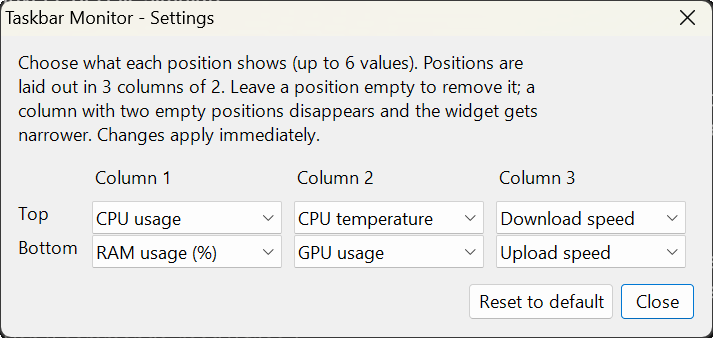
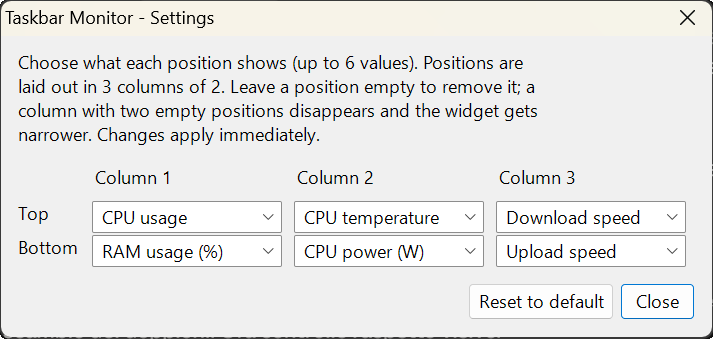
Document the new values and category grouping for 1.3.0
Update the README and the website with the six new values (tables grouped by
category, sources of each value, new screenshots including the grouped
drop-down), the FAQ answers, the executable size (44 KB) and the social
preview image. Add the 1.3.0 section to the changelog.

diff --git a/docs/index.html b/docs/index.html
@@ -4,7 +4,7 @@
   <meta charset="utf-8">
   <meta name="viewport" content="width=device-width, initial-scale=1">
   <title>Taskbar Monitor: network speed, CPU and RAM on your Windows taskbar</title>
-  <meta name="description" content="Taskbar Monitor is a free, open-source Windows overlay that shows live download and upload speed, CPU, RAM, CPU temperature and the track you are playing, right on the taskbar. One 37 KB file, no installer.">
+  <meta name="description" content="Taskbar Monitor is a free, open-source Windows overlay that shows live download and upload speed, CPU, RAM, CPU temperature and the track you are playing, right on the taskbar. One 44 KB file, no installer.">
   <link rel="canonical" href="https://alessandrozappatore.github.io/TaskbarMonitor/">
   <meta name="theme-color" content="#14181c" media="(prefers-color-scheme: dark)">
   <meta name="theme-color" content="#fafaf8" media="(prefers-color-scheme: light)">
@@ -13,7 +13,7 @@
   <meta property="og:type" content="website">
   <meta property="og:site_name" content="Taskbar Monitor">
   <meta property="og:title" content="Taskbar Monitor: network speed, CPU and RAM on your Windows taskbar">
-  <meta property="og:description" content="Free, open-source overlay for the Windows taskbar. Live network speed, CPU, RAM, temperature and now playing. One 37 KB file, no installer, no telemetry.">
+  <meta property="og:description" content="Free, open-source overlay for the Windows taskbar. Live network speed, CPU, RAM, temperature and now playing. One 44 KB file, no installer, no telemetry.">
   <meta property="og:url" content="https://alessandrozappatore.github.io/TaskbarMonitor/">
   <meta property="og:image" content="https://alessandrozappatore.github.io/TaskbarMonitor/og-image.png">
   <meta property="og:image:width" content="1200">
@@ -21,7 +21,7 @@
   <meta property="og:image:alt" content="A Windows taskbar showing the now-playing widget on the left and CPU, RAM, temperature and network speed next to the clock.">
   <meta name="twitter:card" content="summary_large_image">
   <meta name="twitter:title" content="Taskbar Monitor: network speed, CPU and RAM on your Windows taskbar">
-  <meta name="twitter:description" content="Free, open-source overlay for the Windows taskbar. One 37 KB file, no installer, no telemetry.">
+  <meta name="twitter:description" content="Free, open-source overlay for the Windows taskbar. One 44 KB file, no installer, no telemetry.">
   <meta name="twitter:image" content="https://alessandrozappatore.github.io/TaskbarMonitor/og-image.png">
 
   <link rel="stylesheet" href="style.css">
@@ -61,7 +61,7 @@
   <main>
     <div class="wrap hero">
       <h1>Network speed, CPU, RAM and music on your Windows taskbar</h1>
-      <p class="lead">Taskbar Monitor is a small overlay that sits on the taskbar and shows what your PC is doing right now. One 37&nbsp;KB file, no installer, nothing sent anywhere.</p>
+      <p class="lead">Taskbar Monitor is a small overlay that sits on the taskbar and shows what your PC is doing right now. One 44&nbsp;KB file, no installer, nothing sent anywhere.</p>
       <div class="actions">
         <a class="btn primary" id="download" href="https://github.com/AlessandroZappatore/TaskbarMonitor/releases/latest/download/TaskbarMonitor.exe">Download for Windows</a>
         <a class="btn" href="https://github.com/AlessandroZappatore/TaskbarMonitor">View source on GitHub</a>
@@ -76,7 +76,7 @@
 
     <div class="wrap">
       <dl class="facts" aria-label="Key facts">
-        <div><dt>37 KB</dt><dd>single executable</dd></div>
+        <div><dt>44 KB</dt><dd>single executable</dd></div>
         <div><dt>~60 MB</dt><dd>of RAM in use</dd></div>
         <div><dt>0</dt><dd>network connections made</dd></div>
         <div><dt>MIT</dt><dd>license, free to use</dd></div>
@@ -108,27 +108,42 @@
         <p>Open <em>Settings</em> from the right-click menu. The stats widget has six positions, in three columns of two. Pick a value for each one or leave it empty, and the widget updates right away. A column with two empty positions disappears, so the widget only takes the space it needs. Labels and units change with the value you pick.</p>
         <div class="two">
           <figure class="shot bare">
-            <img src="screenshot-settings.png" width="713" height="338" alt="The Settings window with six drop-down lists arranged in three columns of two: CPU usage, RAM usage, CPU temperature, GPU usage, download speed and upload speed." loading="lazy">
+            <img src="screenshot-settings.png" width="713" height="339" alt="The Settings window with six drop-down lists arranged in three columns of two: CPU usage, RAM usage, CPU temperature, GPU usage, download speed and upload speed." loading="lazy">
             <figcaption>The Settings window: one drop-down per position.</figcaption>
           </figure>
           <figure class="shot bare">
-            <img src="screenshot-settings-options.png" width="713" height="620" alt="A drop-down list open in the Settings window, showing every available value: download speed, upload speed, CPU usage, CPU temperature, RAM usage, RAM used, disk activity, disk read speed, disk write speed, disk free space, GPU usage, battery and PC uptime." loading="lazy">
-            <figcaption>Every value you can pick, or leave the position empty.</figcaption>
+            <img src="screenshot-settings-options.png" width="713" height="945" alt="A drop-down list open in the Settings window, grouped by category: Network (download speed, upload speed, Wi-Fi signal), CPU (usage, temperature, power, frequency, thermal limit), GPU (usage, memory), Memory (RAM usage, RAM used), Disk (activity, read speed, write speed, free space) and Battery and system (battery, battery cycles, PC uptime)." loading="lazy">
+            <figcaption>Every value you can pick, grouped by category, or leave the position empty.</figcaption>
           </figure>
         </div>
         <figure class="shot" style="margin:2rem 0 1.5rem">
           <img src="screenshot-stats-disk.png" width="401" height="60" alt="Widget showing disk activity 0%, free space 130 GB, read speed 0 B/s, write speed 144 KB/s, battery 100% and uptime 7 hours 2 minutes." loading="lazy">
           <figcaption>Another setup: disk activity, free space, read and write speed, battery and uptime.</figcaption>
         </figure>
+        <figure class="shot" style="margin:0 0 1.5rem">
+          <img src="screenshot-stats-power.png" width="385" height="60" alt="Widget showing CPU power 2.7 W, frequency 1.55 GHz, thermal limit 100%, Wi-Fi signal 94%, GPU memory 932 MB and 585 battery cycles." loading="lazy">
+          <figcaption>And another: CPU power and frequency, thermal limit, Wi-Fi signal, GPU memory and battery cycles.</figcaption>
+        </figure>
         <table>
-          <thead><tr><th scope="col">Value</th><th scope="col">Shown as</th></tr></thead>
           <tbody>
+            <tr><th scope="rowgroup" colspan="2">Network</th></tr>
             <tr><td>Download and upload speed</td><td><code>&darr; 264 B/s</code> &nbsp; <code>&uarr; 1.2 MB/s</code></td></tr>
+            <tr><td>Wi-Fi signal</td><td><code>WIFI 94%</code></td></tr>
+            <tr><th scope="rowgroup" colspan="2">CPU</th></tr>
             <tr><td>CPU usage and temperature</td><td><code>CPU 12%</code> &nbsp; <code>TEMP 53&deg;C</code></td></tr>
-            <tr><td>RAM, as a percentage or in GB</td><td><code>RAM 65%</code> &nbsp; <code>RAM 10.6 GB</code></td></tr>
-            <tr><td>Disk activity, read and write speed, free space</td><td><code>DISK 3%</code> &nbsp; <code>READ 44 KB/s</code> &nbsp; <code>FREE 131 GB</code></td></tr>
+            <tr><td>CPU power</td><td><code>PWR 2.7 W</code></td></tr>
+            <tr><td>CPU frequency</td><td><code>FREQ 1.55 GHz</code></td></tr>
+            <tr><td>CPU thermal limit</td><td><code>LIMIT 100%</code> (turns red when the CPU is being limited by heat)</td></tr>
+            <tr><th scope="rowgroup" colspan="2">GPU</th></tr>
             <tr><td>GPU usage</td><td><code>GPU 7%</code></td></tr>
+            <tr><td>GPU memory in use</td><td><code>VRAM 932 MB</code></td></tr>
+            <tr><th scope="rowgroup" colspan="2">Memory</th></tr>
+            <tr><td>RAM, as a percentage or in GB</td><td><code>RAM 65%</code> &nbsp; <code>RAM 10.6 GB</code></td></tr>
+            <tr><th scope="rowgroup" colspan="2">Disk</th></tr>
+            <tr><td>Disk activity, read and write speed, free space</td><td><code>DISK 3%</code> &nbsp; <code>READ 44 KB/s</code> &nbsp; <code>FREE 131 GB</code></td></tr>
+            <tr><th scope="rowgroup" colspan="2">Battery and system</th></tr>
             <tr><td>Battery</td><td><code>BAT 85%</code></td></tr>
+            <tr><td>Battery charge cycles</td><td><code>CYCLES 585</code></td></tr>
             <tr><td>PC uptime</td><td><code>UP 6:45 h</code></td></tr>
           </tbody>
         </table>
@@ -170,7 +185,10 @@
             <tr><td>CPU and RAM</td><td>The same Windows counters Task Manager is built on.</td></tr>
             <tr><td>Temperature</td><td>The thermal zone reported by the system (ACPI), averaged over the last 5 seconds because the raw sensor can jump by tens of degrees from one second to the next. It is not a per-core reading, so it can differ from tools such as HWiNFO. If your PC does not expose it, the widget shows <code>--</code>.</td></tr>
             <tr><td>Disk and GPU</td><td>Windows performance counters. GPU usage takes the busiest engine type, the way Task Manager does, and shows <code>--</code> if Windows does not expose it on your PC.</td></tr>
-            <tr><td>Battery and uptime</td><td>Windows power status and the system tick counter.</td></tr>
+            <tr><td>Battery, cycles and uptime</td><td>Windows power status, the battery cycle count reported through WMI (read once a minute) and the system tick counter.</td></tr>
+            <tr><td>CPU power, frequency and thermal limit</td><td>The Energy Meter (Intel RAPL) and Processor Information counters, plus the thermal zone&rsquo;s passive limit. Shown as <code>--</code> when your PC does not expose them.</td></tr>
+            <tr><td>Wi-Fi signal</td><td>The signal quality of the active connection from the Windows Native Wifi API, the same percentage <code>netsh</code> reports.</td></tr>
+            <tr><td>GPU memory</td><td>The GPU Adapter Memory counters: dedicated plus shared memory in use.</td></tr>
             <tr><td>Now playing</td><td>Windows media controls, the same ones used by the keyboard media keys and the volume flyout.</td></tr>
           </tbody>
         </table>

diff --git a/docs/faq/index.html b/docs/faq/index.html
@@ -57,12 +57,12 @@
           {
             "@type": "Question",
             "name": "Can I choose what the widget shows?",
-            "acceptedAnswer": { "@type": "Answer", "text": "Yes. Right-click a widget and choose Settings. The stats widget has six positions in three columns of two. For each one you can pick download speed, upload speed, CPU usage, CPU temperature, RAM usage or used GB, disk activity, disk read or write speed, free space on the system drive, GPU usage, battery or PC uptime, or leave it empty. Changes apply immediately and empty columns disappear, so the widget only takes the space it needs." }
+            "acceptedAnswer": { "@type": "Answer", "text": "Yes. Right-click a widget and choose Settings. The stats widget has six positions in three columns of two. For each one you can pick download speed, upload speed, CPU usage, CPU temperature, RAM usage or used GB, disk activity, disk read or write speed, free space on the system drive, GPU usage, GPU memory, battery, battery cycles, PC uptime, CPU power in watts, CPU frequency, the CPU thermal limit or the Wi-Fi signal, or leave it empty. Changes apply immediately and empty columns disappear, so the widget only takes the space it needs." }
           },
           {
             "@type": "Question",
             "name": "Why does the GPU or temperature show two dashes?",
-            "acceptedAnswer": { "@type": "Answer", "text": "Two dashes mean Windows does not expose that value on your PC through the counters Taskbar Monitor uses. GPU usage relies on the GPU Engine performance counters, which need a recent graphics driver. Temperature relies on an ACPI thermal zone. Battery also shows two dashes on a PC without a battery." }
+            "acceptedAnswer": { "@type": "Answer", "text": "Two dashes mean Windows does not expose that value on your PC through the counters Taskbar Monitor uses. GPU usage relies on the GPU Engine performance counters, which need a recent graphics driver. Temperature and thermal limit rely on an ACPI thermal zone. CPU power relies on the Intel RAPL counters, which only some platforms expose. Battery and battery cycles show two dashes on a PC without a battery, and the Wi-Fi signal shows two dashes on a wired connection." }
           },
           {
             "@type": "Question",
@@ -139,10 +139,10 @@
       <p>The tray icon may be inside the <code>^</code> menu next to the clock. Drag it onto the taskbar to keep it always visible.</p>
 
       <h2 id="choose">Can I choose what the widget shows?</h2>
-      <p>Yes. Right-click a widget and choose <em>Settings</em>. The stats widget has six positions in three columns of two. For each one you can pick download speed, upload speed, CPU usage, CPU temperature, RAM usage or used GB, disk activity, disk read or write speed, free space on the system drive, GPU usage, battery or PC uptime, or leave it empty. Changes apply immediately and empty columns disappear, so the widget only takes the space it needs.</p>
+      <p>Yes. Right-click a widget and choose <em>Settings</em>. The stats widget has six positions in three columns of two. For each one you can pick download speed, upload speed, CPU usage, CPU temperature, RAM usage or used GB, disk activity, disk read or write speed, free space on the system drive, GPU usage, GPU memory, battery, battery cycles, PC uptime, CPU power in watts, CPU frequency, the CPU thermal limit or the Wi-Fi signal, or leave it empty. Changes apply immediately and empty columns disappear, so the widget only takes the space it needs.</p>
 
       <h2 id="dashes">Why does the GPU or temperature show two dashes?</h2>
-      <p>Two dashes mean Windows does not expose that value on your PC through the counters Taskbar Monitor uses. GPU usage relies on the <em>GPU Engine</em> performance counters, which need a recent graphics driver. Temperature relies on an ACPI thermal zone. Battery also shows two dashes on a PC without a battery.</p>
+      <p>Two dashes mean Windows does not expose that value on your PC through the counters Taskbar Monitor uses. GPU usage relies on the <em>GPU Engine</em> performance counters, which need a recent graphics driver. Temperature and thermal limit rely on an ACPI thermal zone. CPU power relies on the Intel RAPL counters, which only some platforms expose. Battery and battery cycles show two dashes on a PC without a battery, and the Wi-Fi signal shows two dashes on a wired connection.</p>
 
       <h2 id="players">Which players does the now-playing widget support?</h2>
       <p>Any app that uses the Windows media controls: Spotify, YouTube and other sites in Chrome or Edge, VLC and many others. If a track shows up in the Windows volume flyout, it will show up in the widget. Cover art depends on what the app provides.</p>

diff --git a/docs/style.css b/docs/style.css
@@ -202,3 +202,5 @@ th { color: var(--muted); font-weight: 600; font-size: 0.9rem; }
 @media (prefers-reduced-motion: reduce) {
   html { scroll-behavior: auto; }
 }
+
+table th[scope="rowgroup"] { color: var(--text); font-size: 0.85rem; text-transform: uppercase; letter-spacing: 0.04em; padding-top: 1.1rem; border-bottom: 1px solid var(--line); }

diff --git a/README.md b/README.md
@@ -4,7 +4,7 @@
 
 A tiny, free and open-source Windows overlay that shows **live network speed, CPU, RAM, CPU temperature and the currently playing track** right on your taskbar.
 
-- Single ~37 KB executable, no installer, no runtime to install
+- Single ~44 KB executable, no installer, no runtime to install
 - Uses ~60 MB of RAM and practically 0% CPU
 - No network access, no telemetry, no accounts
 
@@ -14,13 +14,17 @@ A tiny, free and open-source Windows overlay that shows **live network speed, CP
 | --- | --- |
 | ![Stats overlay](docs/screenshot-stats.png) | ![Stats overlay showing disk values](docs/screenshot-stats-disk.png) |
 
+A third setup showing CPU power, frequency, thermal limit, Wi-Fi signal, GPU memory and battery cycles:
+
+![Stats overlay showing power, frequency, thermal limit, Wi-Fi, GPU memory and battery cycles](docs/screenshot-stats-power.png)
+
 ![Now playing overlay](docs/screenshot-media.png)
 
 ## Features
 
 | Overlay | What it shows |
 | --- | --- |
-| **Stats** (bottom right, next to the system tray) | Up to 6 values that **you choose**: network speed, CPU, temperature, RAM, disk, GPU, battery, uptime (see [Choosing what to show](#choosing-what-to-show)) |
+| **Stats** (bottom right, next to the system tray) | Up to 6 values that **you choose**: network speed, CPU usage, temperature, power and frequency, RAM, disk, GPU, Wi-Fi, battery, uptime (see [Choosing what to show](#choosing-what-to-show)) |
 | **Now playing** (bottom left) | Cover art, title and artist of whatever is playing (Spotify, YouTube in the browser, VLC, ...). Click it to play/pause |
 
 - Fixed-position columns: values never jump around when they change.
@@ -62,22 +66,28 @@ If you move the `.exe` to another folder after enabling *Start with Windows*, to
 
 Open **Settings...** from the menu. The stats widget has **6 positions**, laid out in 3 columns of 2. Pick any value for each position, or leave it empty. Changes apply immediately.
 
-| Settings window | Every available value |
+| Settings window | Every available value, grouped by category |
 | --- | --- |
 | ![Settings window](docs/screenshot-settings.png) | ![Settings drop-down list](docs/screenshot-settings-options.png) |
  A column with two empty positions disappears and the widget gets narrower, so it never takes more space than it needs. Labels and units change with the value you pick.
 
-| Value | Shown as |
-| --- | --- |
-| Download / upload speed | `↓ 264 B/s`, `↑ 1.2 MB/s` |
-| CPU usage | `CPU 12%` |
-| CPU temperature | `TEMP 53°C` |
-| RAM usage / RAM used | `RAM 65%` / `RAM 10.6 GB` |
-| Disk activity, read speed, write speed | `DISK 3%`, `READ 44.0 KB/s`, `WRITE 128.1 KB/s` |
-| Disk free space (system drive) | `FREE 131 GB` |
-| GPU usage | `GPU 7%` |
-| Battery | `BAT 85%` (green when plugged in, red when low) |
-| PC uptime | `UP 6:45 h` or `UP 3d 4 h` |
+| Category | Value | Shown as |
+| --- | --- | --- |
+| **Network** | Download / upload speed | `↓ 264 B/s`, `↑ 1.2 MB/s` |
+| | Wi-Fi signal | `WIFI 94%` (weak signal turns red) |
+| **CPU** | CPU usage | `CPU 12%` |
+| | CPU temperature | `TEMP 53°C` |
+| | CPU power (package, RAPL) | `PWR 2.7 W` |
+| | CPU frequency | `FREQ 1.55 GHz` |
+| | CPU thermal limit | `LIMIT 100%` (100% = not limited; lower values turn red) |
+| **GPU** | GPU usage | `GPU 7%` |
+| | GPU memory in use | `VRAM 932 MB` or `VRAM 1.4 GB` |
+| **Memory** | RAM usage / RAM used | `RAM 65%` / `RAM 10.6 GB` |
+| **Disk** | Disk activity, read speed, write speed | `DISK 3%`, `READ 44.0 KB/s`, `WRITE 128.1 KB/s` |
+| | Disk free space (system drive) | `FREE 131 GB` |
+| **Battery and system** | Battery | `BAT 85%` (green when plugged in, red when low) |
+| | Battery charge cycles | `CYCLES 585` |
+| | PC uptime | `UP 6:45 h` or `UP 3d 4 h` |
 
 Each value can appear only once: choosing one that is already used swaps the two positions. Percentages, temperature and battery change color from green to yellow to red. Only the values you select are measured, so the others cost nothing. The default is CPU, RAM, temperature, download and upload.
 
@@ -126,6 +136,12 @@ This produces `TaskbarMonitor.exe` in the repository folder.
 - **Disk**: the *PhysicalDisk* performance counters (activity, read and write bytes per second) and free space of the system drive.
 - **GPU**: the *GPU Engine* performance counters, taking the busiest engine type like Task Manager does. Shown as `--` if Windows does not expose them.
 - **Battery / uptime**: Windows power status and `GetTickCount64`.
+- **CPU power**: the *Energy Meter* performance counters (Intel RAPL, package power in milliwatts). Available on Intel CPUs whose platform exposes RAPL to Windows; shown as `--` otherwise.
+- **CPU frequency**: base frequency times `% Processor Performance`, the way Task Manager computes the current speed.
+- **CPU thermal limit**: the `% Passive Limit` counter of the thermal zone (100% means the CPU is not being limited because of heat).
+- **Wi-Fi signal**: the signal quality of the active connection from the Native Wifi API (the same percentage `netsh wlan show interfaces` reports). `--` on a wired connection.
+- **GPU memory**: the *GPU Adapter Memory* counters, dedicated plus shared usage of all adapters.
+- **Battery cycles**: the `BatteryCycleCount` WMI class, read once a minute. `--` if the battery does not report it.
 - **CPU temperature**: the *Thermal Zone Information* performance counter (ACPI thermal zones). This is the temperature reported by the system, **not** a per-core reading, so it can differ from tools like HWiNFO or HWMonitor. On many laptops this sensor swings by tens of degrees from one second to the next (CPU boost bursts), so the widget shows the **average of the last 5 seconds** instead of the instantaneous sample. If your machine does not expose a thermal zone, the value is shown as `--`.
 - **Now playing**: the Windows *System Media Transport Controls* (the same API behind the media flyout and keyboard media keys), so any app that integrates with it works.
 - **Overlay**: a borderless, non-activating, always-on-top window owned by the taskbar window. Windows 11 no longer supports third-party taskbar toolbars, so an overlay is the most reliable approach. Because Windows always keeps an owned window above its owner, the overlay rises together with the taskbar when the Start menu or other flyouts open, without polling the z-order (no flicker). If Explorer restarts, the overlay re-attaches automatically.

diff --git a/CHANGELOG.md b/CHANGELOG.md
@@ -1,7 +1,10 @@
 # Changelog
 
-## Unreleased
+## 1.3.0
 
+- **Six more values to choose from**: CPU power in watts (Intel RAPL), CPU frequency, CPU thermal limit, Wi-Fi signal, GPU memory in use and battery cycle count. They are only measured when selected and add no noticeable load (about 0.1% of one core for the process with all six active).
+- The Settings drop-down groups the 19 values by category (Network, CPU, GPU, Memory, Disk, Battery and system), with non-selectable headings and indented items. Clicking a heading selects its first item; the arrow keys skip headings.
+- The executable is now about 44 KB.
 - CPU temperature is now the average of the last 5 seconds instead of the instantaneous sensor sample, which on many laptops jumps by tens of degrees from one second to the next.
 
 ## 1.2.0
